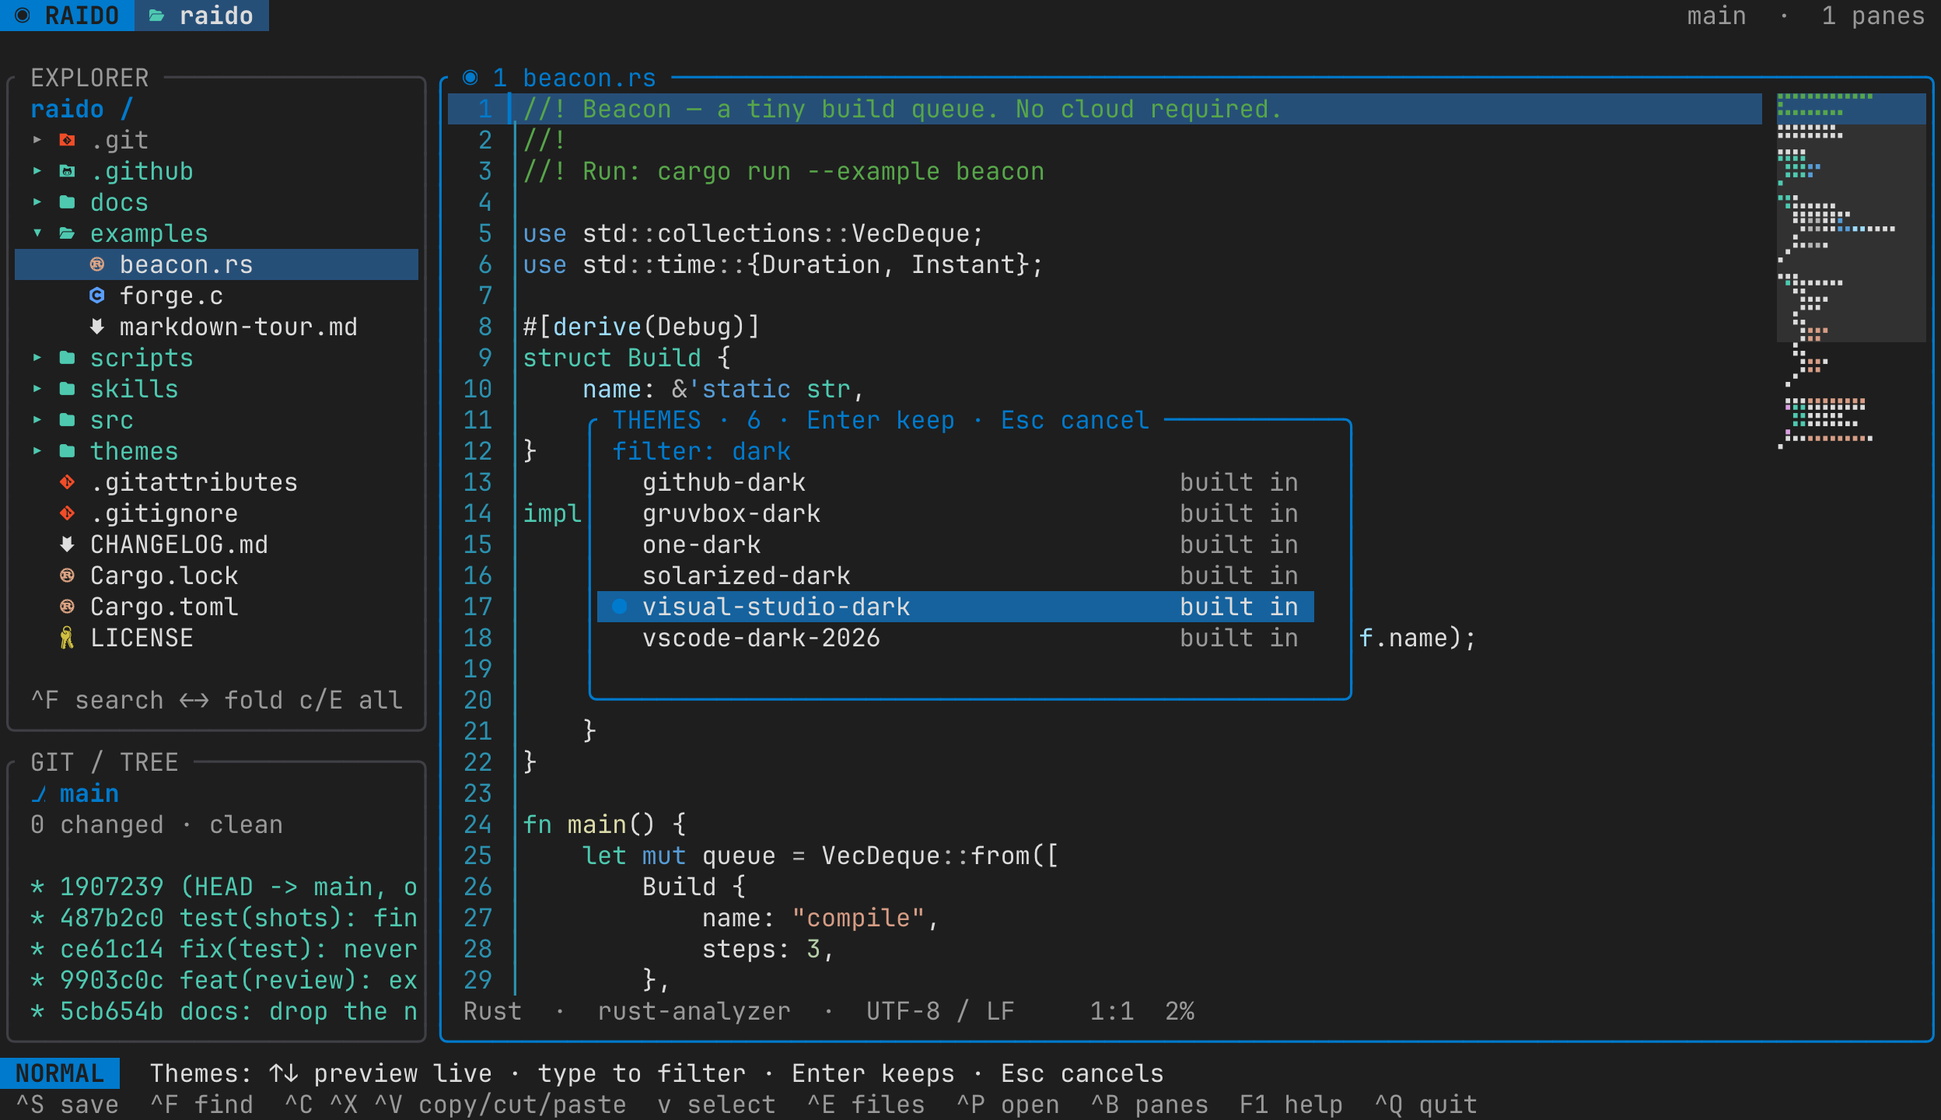
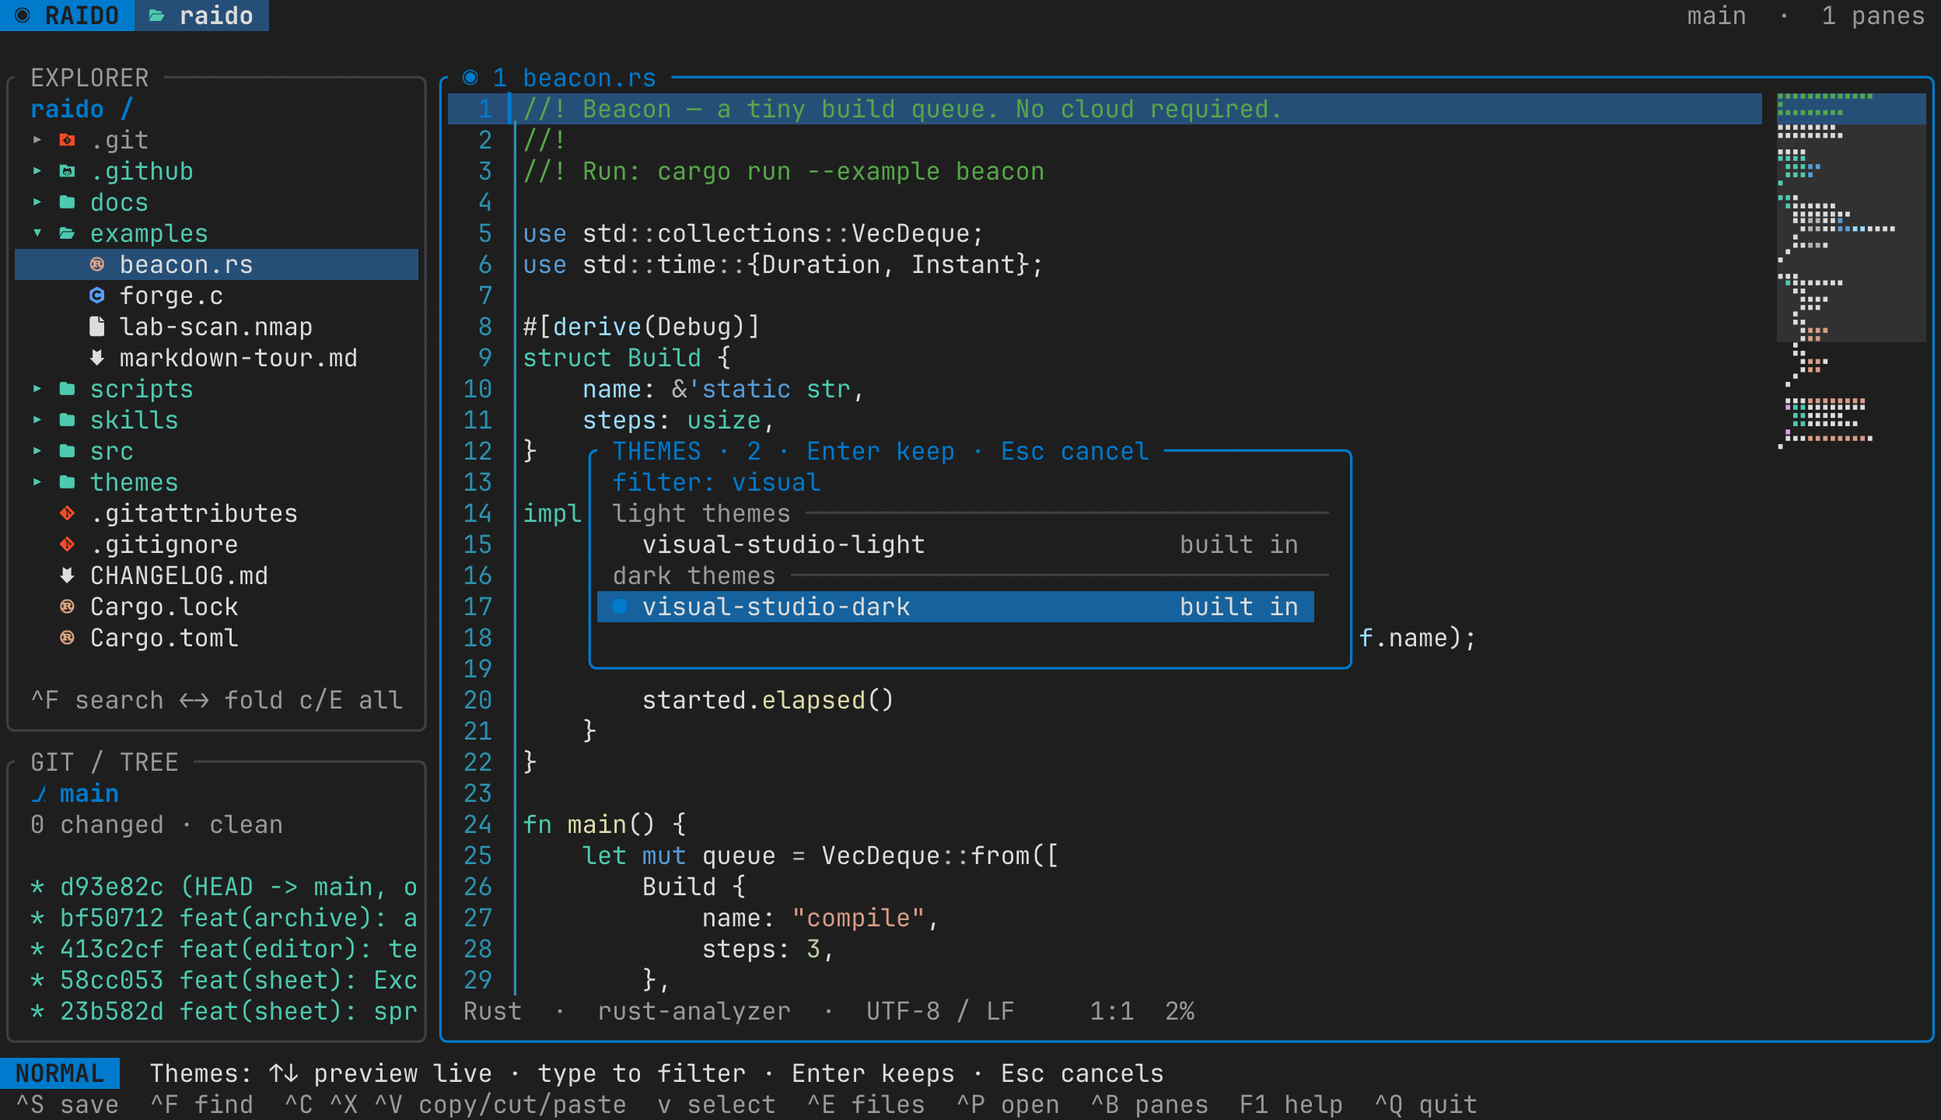
feat(theme): the picker lists light and dark themes apart, as VS Code
The light themes come first under their heading, then the dark ones,
each by name, as VS Code's color theme picker lists them. A theme goes
in the group its background puts it in, so your own files and Omarchy
themes are sorted too, and filtering keeps the heading of each group
that still has a match.

The luminance the review's colors already used moves to config, where
the picker reads it, and the README screenshot shows both groups.

diff --git a/src/app.rs b/src/app.rs
@@ -148,13 +148,59 @@ pub struct Find {
 
 /// Theme chooser: moving previews a theme live, Enter keeps it, Esc restores.
 pub struct ThemePicker {
-    /// (name, origin: "built in" / "your file" / "omarchy")
-    pub themes: Vec<(String, &'static str)>,
+    /// Light themes first, then dark ones, each by name, as VS Code lists them.
+    pub themes: Vec<ThemeChoice>,
+    /// The themes the filter lets through, in that order (indexes into `themes`).
     pub shown: Vec<usize>,
+    /// Which of `shown` is highlighted.
     pub selected: usize,
     pub filter: String,
     /// Theme active when the picker opened, restored on Esc.
     pub original: String,
+}
+
+/// A theme in the picker.
+pub struct ThemeChoice {
+    pub name: String,
+    /// "built in", "your file" or "omarchy".
+    pub origin: &'static str,
+    /// Listed under the light themes; one that doesn't load goes with the dark.
+    pub light: bool,
+}
+
+/// A line of the theme picker's list.
+#[derive(Clone, Copy, Debug, PartialEq, Eq)]
+pub enum PickerRow {
+    /// "light themes" or "dark themes", above the first of them.
+    Heading(&'static str),
+    /// The theme at this position of `shown`.
+    Theme(usize),
+}
+
+impl ThemePicker {
+    /// The list as drawn: each group of the themes shown under its heading.
+    pub fn rows(&self) -> Vec<PickerRow> {
+        let mut rows = Vec::with_capacity(self.shown.len() + 2);
+        let mut group = None;
+        for (at, &index) in self.shown.iter().enumerate() {
+            let light = self.themes[index].light;
+            if group != Some(light) {
+                group = Some(light);
+                rows.push(PickerRow::Heading(if light {
+                    "light themes"
+                } else {
+                    "dark themes"
+                }));
+            }
+            rows.push(PickerRow::Theme(at));
+        }
+        rows
+    }
+    /// The name of the highlighted theme.
+    pub fn chosen(&self) -> Option<String> {
+        let index = *self.shown.get(self.selected)?;
+        Some(self.themes[index].name.clone())
+    }
 }
 
 /// What the AI launcher pane says in the status line.
@@ -6380,15 +6426,18 @@ impl App {
         }
     }
     pub fn open_picker(&mut self) {
-        let themes: Vec<(String, &'static str)> = config::available_themes()
+        let mut themes: Vec<ThemeChoice> = config::available_themes()
             .into_iter()
-            .map(|name| {
-                let origin = config::theme_origin(&name);
-                (name, origin)
+            .map(|name| ThemeChoice {
+                origin: config::theme_origin(&name),
+                light: config::load_theme(&name).is_ok_and(|theme| theme.is_light()),
+                name,
             })
             .collect();
+        // Already by name; the sort keeps that within each group.
+        themes.sort_by_key(|theme| !theme.light);
         let original = self.config.theme.clone();
-        let selected = themes.iter().position(|(n, _)| *n == original).unwrap_or(0);
+        let selected = themes.iter().position(|t| t.name == original).unwrap_or(0);
         self.picker = Some(ThemePicker {
             shown: (0..themes.len()).collect(),
             themes,
@@ -6416,10 +6465,7 @@ impl App {
                 return Ok(());
             }
             KeyCode::Enter => {
-                let chosen = picker
-                    .shown
-                    .get(picker.selected)
-                    .map(|&i| picker.themes[i].0.clone());
+                let chosen = picker.chosen();
                 self.picker = None;
                 if let Some(name) = chosen {
                     self.command(&format!("theme {name}"))?;
@@ -6449,16 +6495,12 @@ impl App {
         if refilter {
             let filter = picker.filter.to_lowercase();
             picker.shown = (0..picker.themes.len())
-                .filter(|&i| picker.themes[i].0.to_lowercase().contains(&filter))
+                .filter(|&i| picker.themes[i].name.to_lowercase().contains(&filter))
                 .collect();
             picker.selected = 0;
         }
         // Live preview of the highlighted theme; not saved until Enter.
-        let preview = picker
-            .shown
-            .get(picker.selected)
-            .map(|&i| picker.themes[i].0.clone());
-        if let Some(name) = preview {
+        if let Some(name) = picker.chosen() {
             if name != self.config.theme {
                 if let Err(error) = self.apply_theme(&name) {
                     self.fail(format!("{name}: {error:#}"));
@@ -8351,8 +8393,26 @@ while True:
         press(&mut app, KeyCode::Char('b'), KeyModifiers::CONTROL);
         press(&mut app, KeyCode::Char('t'), KeyModifiers::NONE);
         let picker = app.picker.as_ref().unwrap();
-        assert_eq!(picker.themes[picker.shown[picker.selected]].0, "nord");
-        assert!(picker.themes.iter().any(|(n, _)| n == "vscode-dark-2026"));
+        assert_eq!(picker.chosen().as_deref(), Some("nord"));
+        assert!(picker.themes.iter().any(|t| t.name == "vscode-dark-2026"));
+        // Light themes come first, then dark ones, each by name, as in VS Code.
+        let group = |light: bool| -> Vec<&str> {
+            let names = picker.themes.iter().filter(|t| t.light == light);
+            names.map(|t| t.name.as_str()).collect()
+        };
+        let (light, dark) = (group(true), group(false));
+        for name in ["github-light", "solarized-light", "visual-studio-light"] {
+            assert!(light.contains(&name), "{name} is light");
+        }
+        for name in ["nord", "phosphor", "solarized-dark", "visual-studio-dark"] {
+            assert!(dark.contains(&name), "{name} is dark");
+        }
+        assert!(picker.themes[..light.len()].iter().all(|t| t.light));
+        assert!(light.is_sorted() && dark.is_sorted());
+        let rows = picker.rows();
+        assert_eq!(rows[0], PickerRow::Heading("light themes"));
+        assert_eq!(rows[light.len() + 1], PickerRow::Heading("dark themes"));
+        assert_eq!(rows.len(), picker.themes.len() + 2);
         // Moving previews the next theme immediately.
         press(&mut app, KeyCode::Down, KeyModifiers::NONE);
         assert_ne!(app.config.theme, "nord");
@@ -8365,7 +8425,13 @@ while True:
         for c in "drac".chars() {
             press(&mut app, KeyCode::Char(c), KeyModifiers::NONE);
         }
-        assert_eq!(app.picker.as_ref().unwrap().shown.len(), 1);
+        let picker = app.picker.as_ref().unwrap();
+        assert_eq!(picker.shown.len(), 1);
+        // Only the groups with a theme that matches keep their heading.
+        assert_eq!(
+            picker.rows(),
+            [PickerRow::Heading("dark themes"), PickerRow::Theme(0)]
+        );
         assert_eq!(app.config.theme, "dracula");
         press(&mut app, KeyCode::Enter, KeyModifiers::NONE);
         assert!(app.picker.is_none());
@@ -8385,6 +8451,12 @@ while True:
                 .map(|c| c.symbol())
                 .collect();
             assert!(screen.contains("THEMES"));
+            // The highlighted dark theme shows below its heading.
+            let heading = screen.find("dark themes").expect("dark heading");
+            assert!(screen.find("dracula").is_some_and(|at| at > heading));
+            if height > 30 {
+                assert!(screen.find("light themes").is_some_and(|at| at < heading));
+            }
         }
     }
     #[test]

diff --git a/src/ui.rs b/src/ui.rs
@@ -1,5 +1,5 @@
 use crate::{
-    app::{App, InputKind, Mode, Pane},
+    app::{App, InputKind, Mode, Pane, PickerRow, ThemeChoice},
     archive::ArchiveView,
     config::{color, Theme},
     editor::Buffer,
@@ -1002,8 +1002,8 @@ fn theme_picker(frame: &mut Frame, app: &App, area: Rect) {
     };
     let theme = &app.theme;
     let width = area.width.saturating_sub(6).min(52);
-    let rows = picker.shown.len().clamp(1, 16);
-    let height = (rows as u16 + 4).min(area.height.saturating_sub(4));
+    let rows = picker.rows();
+    let height = (rows.len().clamp(1, 18) as u16 + 4).min(area.height.saturating_sub(4));
     let rect = Rect::new(
         area.x + (area.width - width) / 2,
         area.y + (area.height - height) / 2,
@@ -1038,7 +1038,12 @@ fn theme_picker(frame: &mut Frame, app: &App, area: Rect) {
         Rect::new(inner.x, inner.y, inner.width, 1),
     );
     let visible = (inner.height - 1) as usize;
-    let top = picker.selected.saturating_sub(visible.saturating_sub(1));
+    // The highlighted theme stays on screen, its heading above it when there's room.
+    let at = rows
+        .iter()
+        .position(|row| *row == PickerRow::Theme(picker.selected))
+        .unwrap_or(0);
+    let top = at.saturating_sub(visible.saturating_sub(1));
     let chosen = crate::markdown::mix(color(&theme.selection), color(&theme.accent), 0.45);
     if picker.shown.is_empty() {
         text(
@@ -1048,9 +1053,26 @@ fn theme_picker(frame: &mut Frame, app: &App, area: Rect) {
             color(&theme.muted),
         );
     }
-    for (offset, &index) in picker.shown.iter().skip(top).take(visible).enumerate() {
-        let (name, origin) = &picker.themes[index];
-        let selected = top + offset == picker.selected;
+    for (offset, row) in rows.iter().skip(top).take(visible).enumerate() {
+        let line_area = Rect::new(inner.x, inner.y + 1 + offset as u16, inner.width, 1);
+        let at = match *row {
+            // VS Code's separators: the group's name, then a rule.
+            PickerRow::Heading(label) => {
+                let rule = (inner.width as usize).saturating_sub(label.len() + 3);
+                let line = Line::from(vec![
+                    Span::styled(
+                        format!(" {label} "),
+                        Style::default().fg(color(&theme.muted)),
+                    ),
+                    Span::styled("─".repeat(rule), Style::default().fg(color(&theme.border))),
+                ]);
+                frame.render_widget(Paragraph::new(line), line_area);
+                continue;
+            }
+            PickerRow::Theme(at) => at,
+        };
+        let ThemeChoice { name, origin, .. } = &picker.themes[picker.shown[at]];
+        let selected = at == picker.selected;
         let mark = if *name == picker.original { "●" } else { " " };
         let base = if selected {
             Style::default().bg(chosen)
@@ -1073,10 +1095,7 @@ fn theme_picker(frame: &mut Frame, app: &App, area: Rect) {
                 })),
             ),
         ]);
-        frame.render_widget(
-            Paragraph::new(line),
-            Rect::new(inner.x, inner.y + 1 + offset as u16, inner.width, 1),
-        );
+        frame.render_widget(Paragraph::new(line), line_area);
     }
 }
 
@@ -1140,20 +1159,7 @@ fn copy_mode(frame: &mut Frame, mode: &mut crate::copymode::CopyMode, area: Rect
 /// yellows) stay visible on light ones.
 pub(crate) fn legible(tint: Color, theme: &Theme) -> Color {
     let (background, text) = (color(&theme.background), color(&theme.foreground));
-    let luminance = |c: Color| match c {
-        Color::Rgb(r, g, b) => {
-            let channel = |v: u8| {
-                let v = f32::from(v) / 255.0;
-                if v <= 0.03928 {
-                    v / 12.92
-                } else {
-                    ((v + 0.055) / 1.055).powf(2.4)
-                }
-            };
-            Some(0.2126 * channel(r) + 0.7152 * channel(g) + 0.0722 * channel(b))
-        }
-        _ => None,
-    };
+    let luminance = crate::config::luminance;
     let contrast = |c: Color| match (luminance(c), luminance(background)) {
         (Some(a), Some(b)) => (a.max(b) + 0.05) / (a.min(b) + 0.05),
         _ => f32::MAX,

diff --git a/src/config.rs b/src/config.rs
@@ -92,6 +92,31 @@ pub const BUNDLED_THEMES: &[(&str, &str)] = &[
     ),
 ];
 
+impl Theme {
+    /// A light theme, as VS Code sorts them: dark text reads better on its
+    /// background than light text does. A background that isn't a color (the
+    /// terminal's own) counts as dark.
+    pub fn is_light(&self) -> bool {
+        luminance(color(&self.background)).is_some_and(|l| l > 0.18)
+    }
+}
+
+/// A color's relative luminance, 0 (black) to 1 (white), as WCAG measures contrast.
+pub fn luminance(c: Color) -> Option<f32> {
+    let Color::Rgb(r, g, b) = c else {
+        return None;
+    };
+    let channel = |v: u8| {
+        let v = f32::from(v) / 255.0;
+        if v <= 0.03928 {
+            v / 12.92
+        } else {
+            ((v + 0.055) / 1.055).powf(2.4)
+        }
+    };
+    Some(0.2126 * channel(r) + 0.7152 * channel(g) + 0.0722 * channel(b))
+}
+
 impl Default for Theme {
     fn default() -> Self {
         Self {

diff --git a/src/shots.rs b/src/shots.rs
@@ -478,12 +478,10 @@ fn shots_theme_picker() {
     app.command("e examples/beacon.rs").unwrap();
     ready(&mut app, w, h, "rust-analyzer");
     prefix(&mut app, 't');
-    keys(&mut app, "dark");
+    // Both groups: Visual Studio Light under the light themes, Dark under the dark.
+    keys(&mut app, "visual");
     for _ in 0..12 {
-        let selected = app.picker.as_ref().and_then(|p| {
-            let index = *p.shown.get(p.selected)?;
-            Some(p.themes[index].0.clone())
-        });
+        let selected = app.picker.as_ref().and_then(|p| p.chosen());
         if selected.as_deref() == Some("visual-studio-dark") {
             break;
         }

diff --git a/skills/raido/SKILL.md b/skills/raido/SKILL.md
@@ -48,7 +48,7 @@ in the order the user presses them. Prefer showing over explaining.
 | Hide a pane without stopping it | **`Ctrl-b d`** (`:dock`) docks the focused pane: it keeps running (agent, shell, server) and shows as a numbered tab in the top bar. Click the tab or **`Ctrl-b D`** (↑↓ Enter / number; `x` closes it) to bring it back in the same place and size; `:undock 2` / `:undock claude`. |
 | Rearrange panes after creating them | **`Ctrl-b Shift+arrows`** (or `Ctrl-b H/J/K/L`, `:move right`) moves the focused pane: swaps with the pane on that side, or at the edge takes the whole side (e.g. a terminal below two editors becomes a full-height right column). **`Ctrl-b Space`** (`:flip`) turns its split between side by side and stacked. |
 | Open a terminal | **`Ctrl-b c`** below (or `:term`), **`Ctrl-b C`** beside (or `:term right`). It starts in the folder the shell you're in has `cd`'d to (else the shell used last, else any open shell; none open → the project folder; Linux and macOS). AI panes and `:run` commands start in the project. Shell = `$SHELL` on Unix, PowerShell on Windows; set `shell = "…"`. Scroll a terminal or AI pane's history with **PgUp/PgDn** (Fn-↑/↓ on a Mac): half a page at a time, then ↑/↓ one line, Home/End top/bottom, Esc or typing returns. Full-screen programs (vim, less) keep those keys. |
-| Change theme | **`Ctrl-b t`** or `:themes` → ↑↓ previews live, type to filter, Enter keeps (saved). `:theme name` directly. Default: `visual-studio-dark`. Light themes: `visual-studio-light`, `vscode-light-2026`, `github-light`, `one-light`, `solarized-light`, `catppuccin-latte`, `gruvbox-light`. Add your own themes (no rebuild) as `.toml` or VS Code `.json` in the themes folder; Omarchy themes appear as `omarchy-<name>`, and `omarchy` follows the desktop. |
+| Change theme | **`Ctrl-b t`** or `:themes` → light themes and dark themes listed apart (as VS Code; by background), ↑↓ previews live, type to filter, Enter keeps (saved). `:theme name` directly. Default: `visual-studio-dark`. Light themes: `visual-studio-light`, `vscode-light-2026`, `github-light`, `one-light`, `solarized-light`, `catppuccin-latte`, `gruvbox-light`. Add your own themes (no rebuild) as `.toml` or VS Code `.json` in the themes folder; Omarchy themes appear as `omarchy-<name>`, and `omarchy` follows the desktop. |
 | Copy / paste | Select with **Shift+arrows** or `v` / `V`, or the whole file with **`Ctrl-a`** (in editors; in terminal and AI panes Ctrl-a stays the program's own); **`Ctrl-c`** copy, **`Ctrl-x`** cut, **`Ctrl-v`** paste (system clipboard). Nothing selected → Ctrl-c/x take the whole line. From a terminal or AI pane: **`Ctrl-b [`** copy mode (move, `v`/`V` select, `y` copies, `/` `?` search scrollback), or **`Ctrl-b Z`** copy view (only that pane on screen, for mouse selection; again to return). Paste into a shell with the terminal's Ctrl-Shift-V / Cmd-V. **Across panes:** a mouse drag copies; then drag over text in another editor and press **`Ctrl-v`** (or `p`, or the terminal's paste): what you copied *before* that selection replaces it and stays on the clipboard. Pastes keep tabs and spaces exactly (no re-indent); line breaks become the file's. Copies from terminal/AI/preview panes come off the screen, so tabs there are already spaces. |
 | Move by word / line like a Mac | **Option+←/→** by word (Shift+Option selects), **Option+Backspace** deletes a word, **Cmd+arrows** line start/end and top/bottom where the terminal passes Cmd on (not macOS Terminal: use Fn+Shift+←/→ there). `raido --keys` shows which keys the terminal actually sends. |
 | Mouse wheel / clicks | The wheel scrolls the pane under the pointer (editor, terminal history, Git pane, preview, explorer, guide; full-screen Claude Code gets the wheel itself). Dragging the line between two panes resizes them, every pane along it (tmux-style); focus stays. A click focuses a pane, places the editor cursor, or opens an explorer entry; on the minimap it jumps there, and dragging its band scrolls. **Dragging selects and copies on release**, kept inside the pane it started in (never the explorer, borders or the next pane): in an editor it's a normal selection of the file's text (scrolls past the edge, stays for typing over / `d` / Esc); in terminal, AI, preview, Git and review panes it copies what's shown there, wrapped terminal lines joined. Double-click copies a word (other panes: a whole path or URL). **Links:** Option/Alt- or Ctrl-click (Cmd where the terminal reports it) opens an http(s)/www link in the default browser, in any pane; in terminal/AI panes a plain double-click on a link opens and copies it. No browser (SSH) → the link is copied. `raido --keys` shows the modifiers a click arrives with. The terminal's own selection instead (rectangles, across panes): **`Ctrl-b y`** (`:mouse off`) hands the mouse to the terminal with the layout unchanged (badge `⇱ MOUSE RELEASED`; `Ctrl-b y` again takes it back), or `Ctrl-b Z` copy view. `mouse = false` turns Raido's mouse off for good. |

diff --git a/README.md b/README.md
@@ -2116,11 +2116,11 @@ Themes are plain files loaded at runtime from `~/.config/raido/themes/`
 
 | Command | Action |
 | --- | --- |
-| `:themes` (or `:theme`, or **Ctrl-b t**) | Open the **theme picker**: ↑↓ previews each theme live, typing filters, Enter keeps it (saved as default), Esc restores the previous one |
+| `:themes` (or `:theme`, or **Ctrl-b t**) | Open the **theme picker**, light themes and dark themes listed apart as in VS Code (by the theme's background): ↑↓ previews each theme live, typing filters, Enter keeps it (saved as default), Esc restores the previous one |
 | `:theme na` then **Tab** | Complete theme names; Tab again cycles matches |
 | `:theme name` | Switch; the footer says whether it is built in or which file it came from |
 
-![The theme picker filtered to dark themes, Visual Studio Dark highlighted](docs/raido-theme-picker.png)
+![The theme picker filtered to "visual": Visual Studio Light under light themes, Visual Studio Dark highlighted under dark themes](docs/raido-theme-picker.png)
 
 **Omarchy themes are picked up automatically.** On an [Omarchy](https://omarchy.org)
 desktop, every installed theme (system and `~/.config/omarchy/themes`) appears in the

diff --git a/CHANGELOG.md b/CHANGELOG.md
@@ -243,6 +243,10 @@ release (0.2 → 0.3) may change keys, settings or behavior, and a patch release
 
 ### Changed
 
+- **The theme picker lists light and dark themes apart**, as VS Code does: the
+  light themes under their heading first, then the dark ones, each by name. Your
+  own and Omarchy themes join the group their background puts them in, and
+  filtering keeps the heading of each group that still has a match.
 - **AI agents start in auto mode**, without asking before each command or file
   edit: Claude Code with `--permission-mode auto`, Codex in its yolo mode
   (`--dangerously-bypass-approvals-and-sandbox`), Gemini CLI with `--yolo` and
